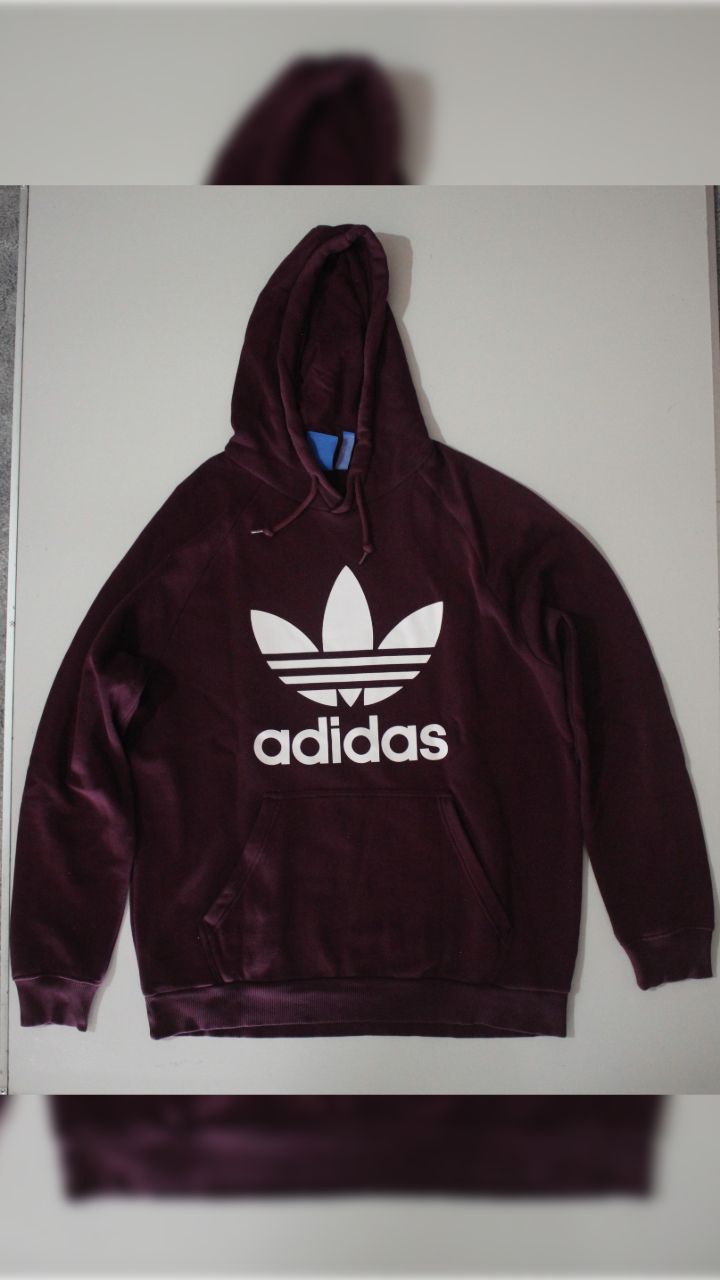
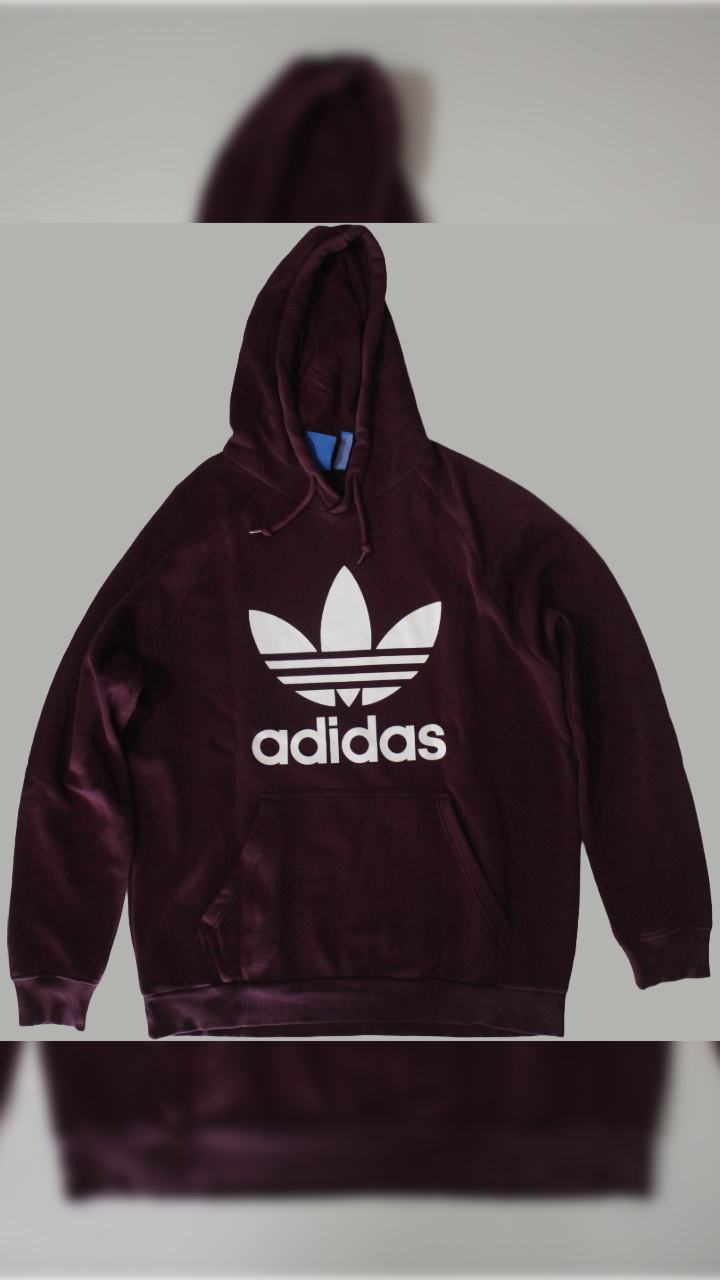
Added More Products
Added more products and compressed some images to load quicker

diff --git a/public/content.js b/public/content.js
@@ -183,6 +183,18 @@ function loadProducts(){
     loadProductCard("10","img/10/thumbnail.jpeg", "Ralph Lauren Pants", "$60", "Vintage Brand New Cotton Polo <br> Size: L");
     loadProductCard("11","img/11/thumbnail.jpeg", "Cooper Hawk Polo Shirt", "$30", "Second-hand Green Denim Pants <br> Size: 32 W 32 L");
     loadProductCard("12","img/12/thumbnail.jpeg", "Adidas Trefoil Hoodie", "$45", "Second-hand Maroon Hoodie <br> Size: L");
+    /*loadProductCard("13","img/13/thumbnail.jpeg", "Adidas Pants", "$30", "Second-Hand Black Sweatpants <br> Size: L");
+    loadProductCard("14","img/14/thumbnail.jpeg", "Adidas Hoodie", "$30", "Second-hand Blue Hoodie <br> Size: M");
+    loadProductCard("15","img/15/thumbnail.jpeg", "California Hoodie", "$40", "Second-hand Navy Hoodie <br> Size: L");
+    loadProductCard("16","img/16/thumbnail.jpeg", "Converse T-Shirt", "$20", "Second-hand White Long Sleeve <br> Size: M");
+    loadProductCard("17","img/17/thumbnail.jpeg", "Gap Athletic", "$20", "Second-hand Maroon Long Sleeve <br> Size: M");
+    loadProductCard("18","img/18/thumbnail.jpeg", "Giordano T-shirt", "$15", "Brand New White T-shirt <br> Size: L");
+    loadProductCard("19","img/19/thumbnail.jpeg", "Grand Slam Polo", "$30", "Vintage Gray Polo <br> Size: L");
+    loadProductCard("20","img/20/thumbnail.jpeg", "Hollister T-shirt", "$20", "Second-hand Navy Long Sleeve <br> Size: L");
+    loadProductCard("21","img/21/thumbnail.jpeg", "New Balance Pants", "$30", "Second-hand Black Sweatpants <br> Size: L");
+    loadProductCard("22","img/22/thumbnail.jpeg", "San Jose Hoodie", "$30", "Second-hand Red Hoodie <br> Size: L");
+    loadProductCard("23","img/23/thumbnail.jpeg", "T.H Long Sleeve", "$20", "Second-hand Red/Navy Long Sleeve <br> Size: M");
+    loadProductCard("24","img/24/thumbnail.jpeg", "Zara Jacket", "$20", "Second-hand Olive Green Jacket <br> Size: L"); */
 }
 
 function loadProductCard(id,img_src, name, price, desc){

diff --git a/public/product.js b/public/product.js
@@ -11,7 +11,19 @@ var currentImageIndex = {
     9: 0,
     10: 0,
     11: 0,
-    12: 0
+    12: 0,
+    13: 0,
+    14: 0,
+    15: 0,
+    16: 0,
+    17: 0,
+    18: 0,
+    19: 0,
+    20: 0,
+    21: 0,
+    22: 0,
+    23: 0,
+    24: 0
   };
 
 /*Add images to this list */
@@ -66,6 +78,56 @@ var images = {
     12: [
       'img/12/front.jpeg',
       'img/12/back.jpeg',
+    ],
+    13: [
+      'img/13/front.jpeg',
+      'img/13/back.jpeg',
+      'img/13/folded.jpeg',
+    ],
+    14: [
+      'img/14/front.jpeg',
+      'img/14/back.jpeg',
+    ],
+    15: [
+      'img/15/front.jpeg',
+      'img/15/back.jpeg',
+    ],
+    16: [
+      'img/16/front.jpeg',
+      'img/16/back.jpeg',
+    ],
+    17: [
+      'img/17/front.jpeg',
+      'img/17/back.jpeg',
+    ],
+    18: [
+      'img/18/front.jpeg',
+      'img/18/back.jpeg',
+    ],
+    19: [
+      'img/19/front.jpeg',
+      'img/19/back.jpeg',
+    ],
+    20: [
+      'img/20/front.jpeg',
+      'img/20/back.jpeg',
+    ],
+    21: [
+      'img/21/front.jpeg',
+      'img/21/back.jpeg',
+      'img/21/folded.jpeg',
+    ],
+    22: [
+      'img/22/front.jpeg',
+      'img/22/back.jpeg',
+    ],
+    23: [
+      'img/23/front.jpeg',
+      'img/23/back.jpeg',
+    ],
+    24: [
+      'img/24/front.jpeg',
+      'img/24/back.jpeg',
     ]
 };
 
